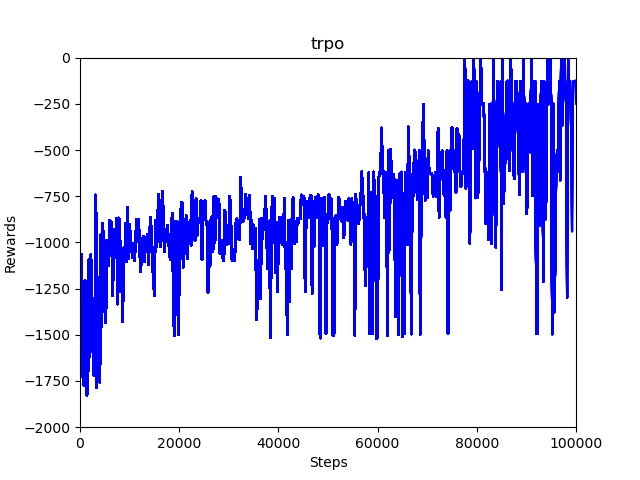
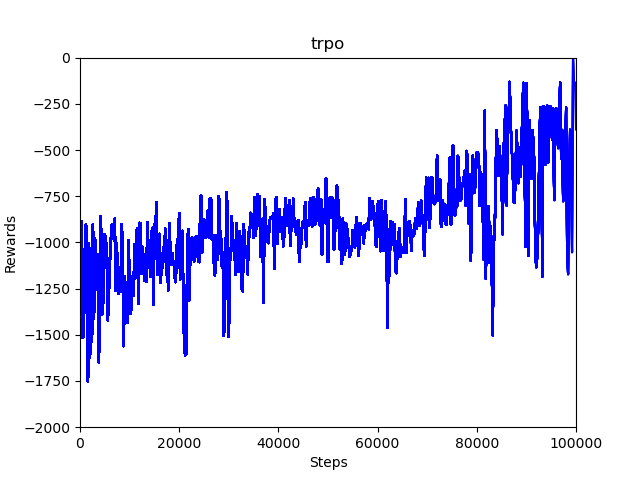
Update on-policy value functions multiple times per batch

Changed region(s): [[0.125, 0.125, 0.9062, 0.8125]]

diff --git a/trpo.py b/trpo.py
@@ -6,7 +6,7 @@ from torch.distributions.kl import kl_divergence
 from torch.nn.utils import parameters_to_vector, vector_to_parameters
 from tqdm import tqdm
 from env import Env
-from hyperparams import BACKTRACK_COEFF, BACKTRACK_ITERS, ON_POLICY_BATCH_SIZE as BATCH_SIZE, CONJUGATE_GRADIENT_ITERS, DAMPING_COEFF, DISCOUNT, HIDDEN_SIZE, INITIAL_POLICY_LOG_STD_DEV, KL_LIMIT, LEARNING_RATE, MAX_STEPS, TRACE_DECAY
+from hyperparams import BACKTRACK_COEFF, BACKTRACK_ITERS, ON_POLICY_BATCH_SIZE as BATCH_SIZE, CONJUGATE_GRADIENT_ITERS, DAMPING_COEFF, DISCOUNT, HIDDEN_SIZE, INITIAL_POLICY_LOG_STD_DEV, KL_LIMIT, LEARNING_RATE, MAX_STEPS, TRACE_DECAY, VALUE_EPOCHS
 from models import ActorCritic
 from utils import plot
 
@@ -100,7 +100,9 @@ for step in pbar:
             vector_to_parameters(old_parameters, agent.actor.parameters())
 
       # Fit value function by regression on mean-squared error
-      value_loss = (trajectories['value'] - trajectories['reward_to_go']).pow(2).mean()
-      critic_optimiser.zero_grad()
-      value_loss.backward()
-      critic_optimiser.step()
+      for _ in range(VALUE_EPOCHS):
+        value_loss = (trajectories['value'] - trajectories['reward_to_go']).pow(2).mean()
+        critic_optimiser.zero_grad()
+        value_loss.backward()
+        critic_optimiser.step()
+        trajectories['value'] = agent(trajectories['state'])[1]

diff --git a/ppo.py b/ppo.py
@@ -2,7 +2,7 @@ import torch
 from torch import optim
 from tqdm import tqdm
 from env import Env
-from hyperparams import ON_POLICY_BATCH_SIZE as BATCH_SIZE, DISCOUNT, HIDDEN_SIZE, INITIAL_POLICY_LOG_STD_DEV, LEARNING_RATE, MAX_STEPS, PPO_CLIP_RATIO, PPO_EPOCHS, TRACE_DECAY
+from hyperparams import ON_POLICY_BATCH_SIZE as BATCH_SIZE, DISCOUNT, HIDDEN_SIZE, INITIAL_POLICY_LOG_STD_DEV, LEARNING_RATE, MAX_STEPS, PPO_CLIP_RATIO, PPO_EPOCHS, TRACE_DECAY, VALUE_EPOCHS
 from models import ActorCritic
 from utils import plot
 
@@ -60,7 +60,9 @@ for step in pbar:
         actor_optimiser.step()
 
       # Fit value function by regression on mean-squared error
-      value_loss = (trajectories['value'] - trajectories['reward_to_go']).pow(2).mean()
-      critic_optimiser.zero_grad()
-      value_loss.backward()
-      critic_optimiser.step()
+      for _ in range(VALUE_EPOCHS):
+        value_loss = (trajectories['value'] - trajectories['reward_to_go']).pow(2).mean()
+        critic_optimiser.zero_grad()
+        value_loss.backward()
+        critic_optimiser.step()
+        trajectories['value'] = agent(trajectories['state'])[1]

diff --git a/vpg.py b/vpg.py
@@ -2,7 +2,7 @@ import torch
 from torch import optim
 from tqdm import tqdm
 from env import Env
-from hyperparams import ON_POLICY_BATCH_SIZE as BATCH_SIZE, DISCOUNT, HIDDEN_SIZE, INITIAL_POLICY_LOG_STD_DEV, LEARNING_RATE, MAX_STEPS, TRACE_DECAY
+from hyperparams import ON_POLICY_BATCH_SIZE as BATCH_SIZE, DISCOUNT, HIDDEN_SIZE, INITIAL_POLICY_LOG_STD_DEV, LEARNING_RATE, MAX_STEPS, TRACE_DECAY, VALUE_EPOCHS
 from models import ActorCritic
 from utils import plot
 
@@ -53,7 +53,9 @@ for step in pbar:
       actor_optimiser.step()
 
       # Fit value function by regression on mean-squared error
-      value_loss = (trajectories['value'] - trajectories['reward_to_go']).pow(2).mean()
-      critic_optimiser.zero_grad()
-      value_loss.backward()
-      critic_optimiser.step()
+      for _ in range(VALUE_EPOCHS):
+        value_loss = (trajectories['value'] - trajectories['reward_to_go']).pow(2).mean()
+        critic_optimiser.zero_grad()
+        value_loss.backward()
+        critic_optimiser.step()
+        trajectories['value'] = agent(trajectories['state'])[1]

diff --git a/hyperparams.py b/hyperparams.py
@@ -17,7 +17,7 @@ OFF_POLICY_BATCH_SIZE = 128
 POLICY_DELAY = 2
 POLYAK_FACTOR = 0.995
 PPO_CLIP_RATIO = 0.2
-PPO_EPOCHS = 20
+PPO_EPOCHS = 60
 REPLAY_SIZE = 100000
 TARGET_ACTION_NOISE = 0.2
 TARGET_ACTION_NOISE_CLIP = 0.5
@@ -26,3 +26,4 @@ TRACE_DECAY = 0.97
 UPDATE_INTERVAL = 1
 UPDATE_START = 10000
 TEST_INTERVAL = 1000
+VALUE_EPOCHS = 60
